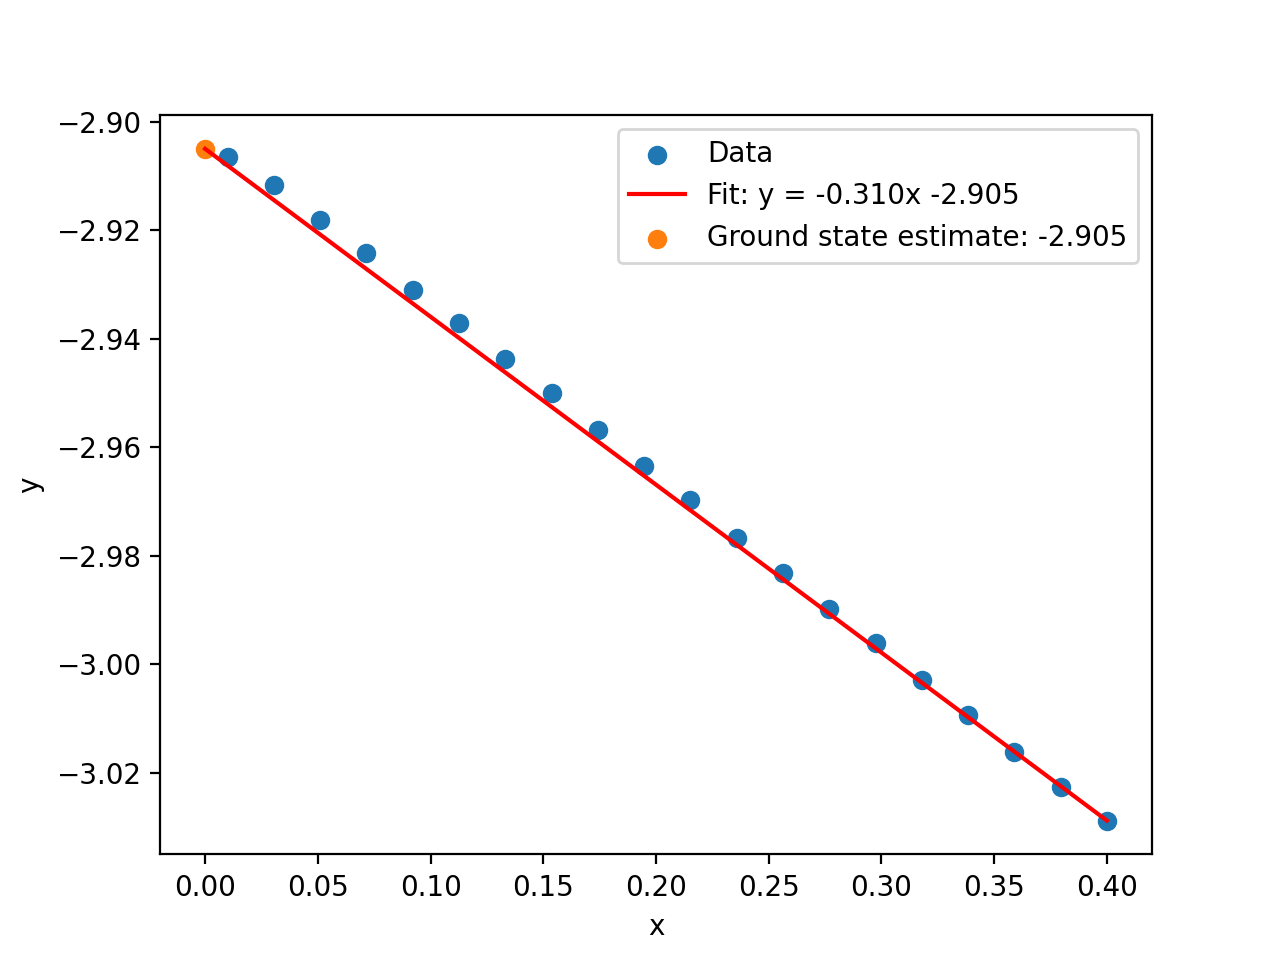
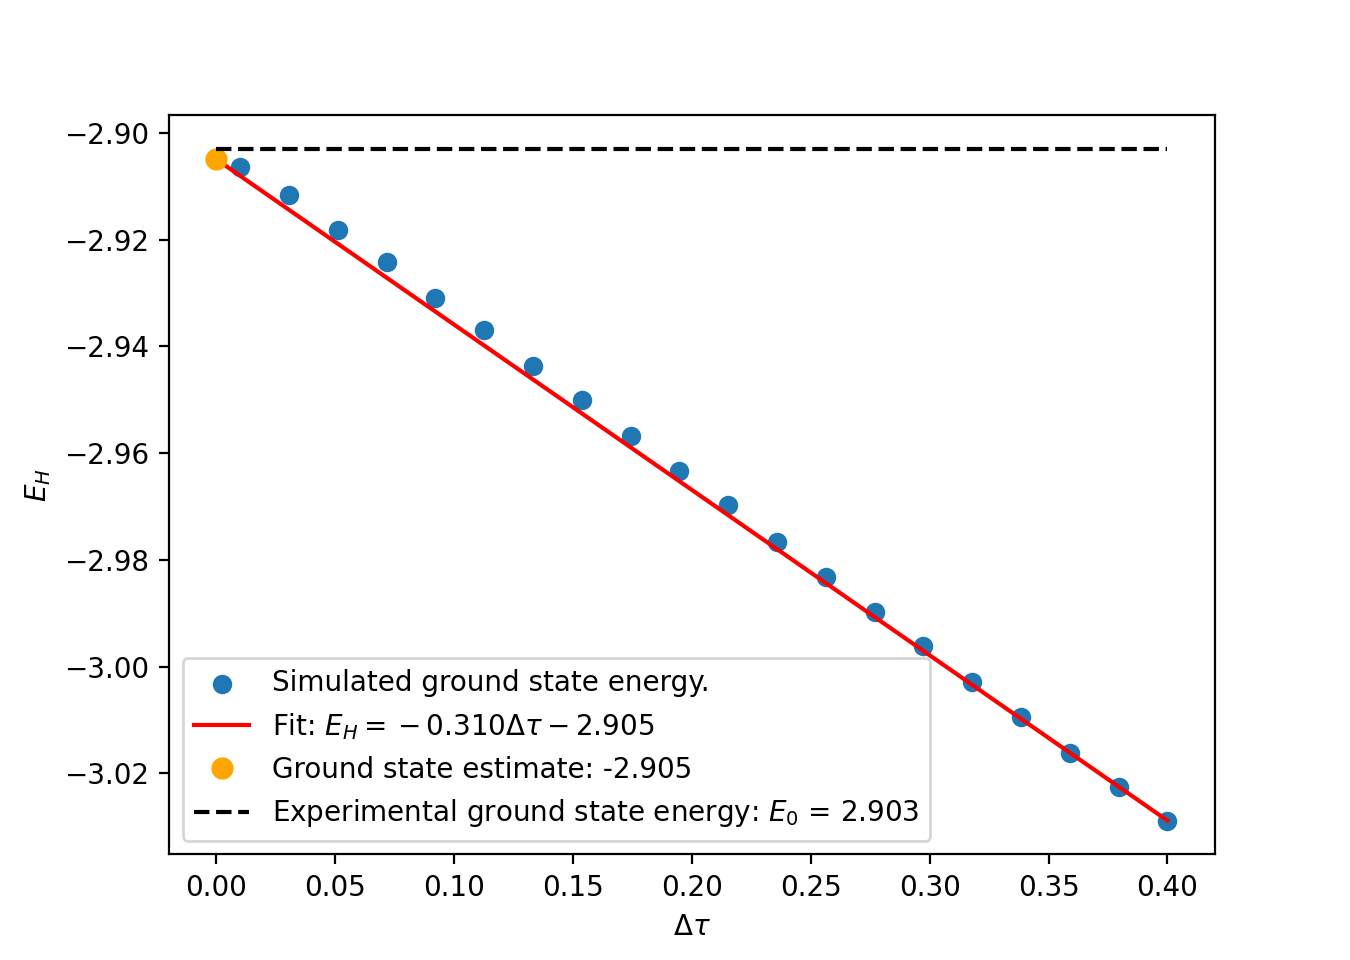
updated plots

diff --git a/plotting/task4.py b/plotting/task4.py
@@ -8,22 +8,23 @@ x = np.linspace(0, 0.4, 20)
 
 slope, intercept = np.polyfit(x, data[:, 0], 1)
 fit_line = slope * x + intercept
-plt.scatter(x1, data[:, 0], label="Data")
-plt.plot(x, fit_line, color='red', label=f"Fit: y = {slope:.3f}x {intercept:.3f}")
-plt.scatter(x[0], fit_line[0], label=f"Ground state estimate: {fit_line[0]:.3f}")
-plt.xlabel("x")
-plt.ylabel("y")
+plt.scatter(x1, data[:, 0], label="Simulated ground state energy")
+plt.plot(x, fit_line, color='red', label=fr"Fit: $E_H = {slope:.3f}\Delta\tau {intercept:.3f}$")
+plt.plot(x[0], fit_line[0], '.', color='orange' , mew=5 , label=f"Ground state estimate: {fit_line[0]:.3f}")
+plt.plot(x, np.zeros(20) - 2.903, "--", color="black", label="Experimental ground state energy: $E_0$ = 2.903")
+plt.xlabel(r"$\Delta\tau$")
+plt.ylabel("$E_H$")
 plt.legend()
 plt.show()
 
 coef = np.polyfit(x, data[:, 1], 2)
 quadratic_fit = coef[0] * x ** 2 + coef[1] * x + coef[2]
-plt.scatter(x1, data[:, 1], label="Data")
-plt.scatter(x[0], quadratic_fit[0], label=f"Ground state estimate: {quadratic_fit[0]:.3f}")
-plt.plot(x, quadratic_fit, color='red', label=f"Fit: $y = {coef[0]:.3f}x^2 {coef[1]:.3f}x {coef[2]:.3f}$")
-plt.plot(x, np.zeros(20) - 2.903, "--", color="black", label="$E_0$ = 2.903")
-plt.xlabel("x")
-plt.ylabel("y")
+plt.scatter(x1, data[:, 1], label="Simulated ground state energy")
+plt.plot(x, quadratic_fit, color='red', label=fr"Fit: $E_H = {coef[0]:.3f}(\Delta\tau)^2 {coef[1]:.3f}\Delta\tau {coef[2]:.3f}$")
+plt.plot(x[0], quadratic_fit[0], '.', color='orange' , mew=5 , label=f"Ground state estimate: {quadratic_fit[0]:.3f}")
+plt.plot(x, np.zeros(20) - 2.903, "--", color="black", label="Experimental ground state energy: $E_0$ = 2.903")
+plt.xlabel(r"$\Delta\tau$")
+plt.ylabel("$E_H$")
 plt.legend()
 plt.show()
 
